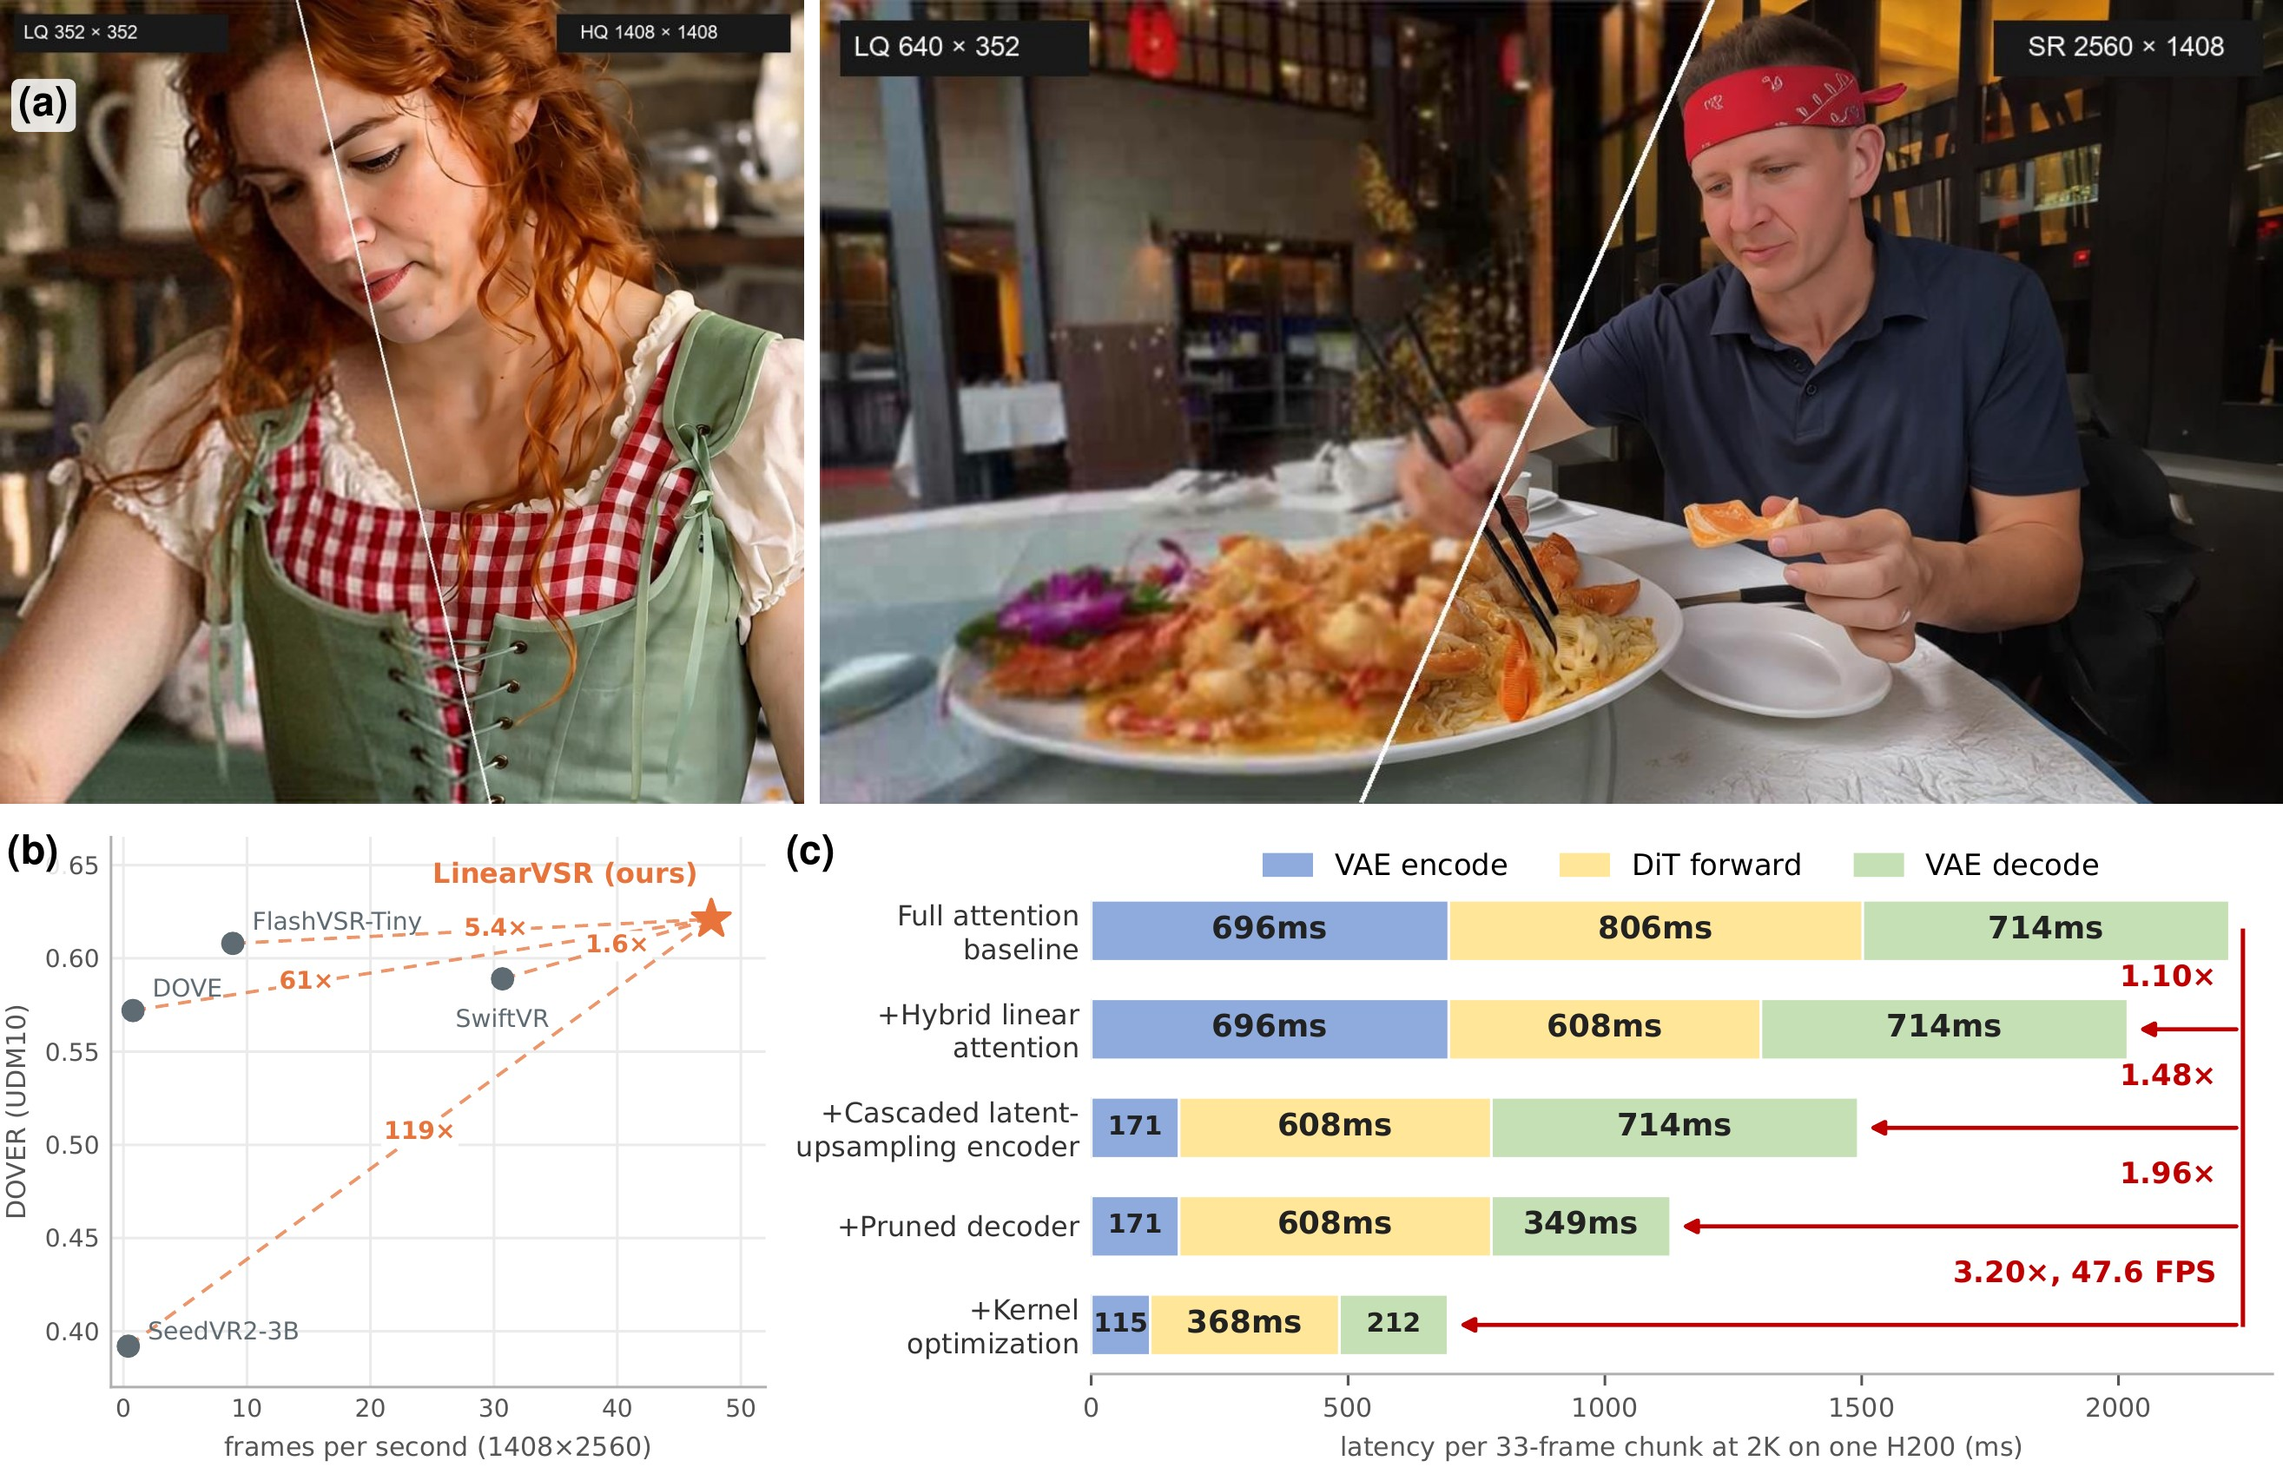
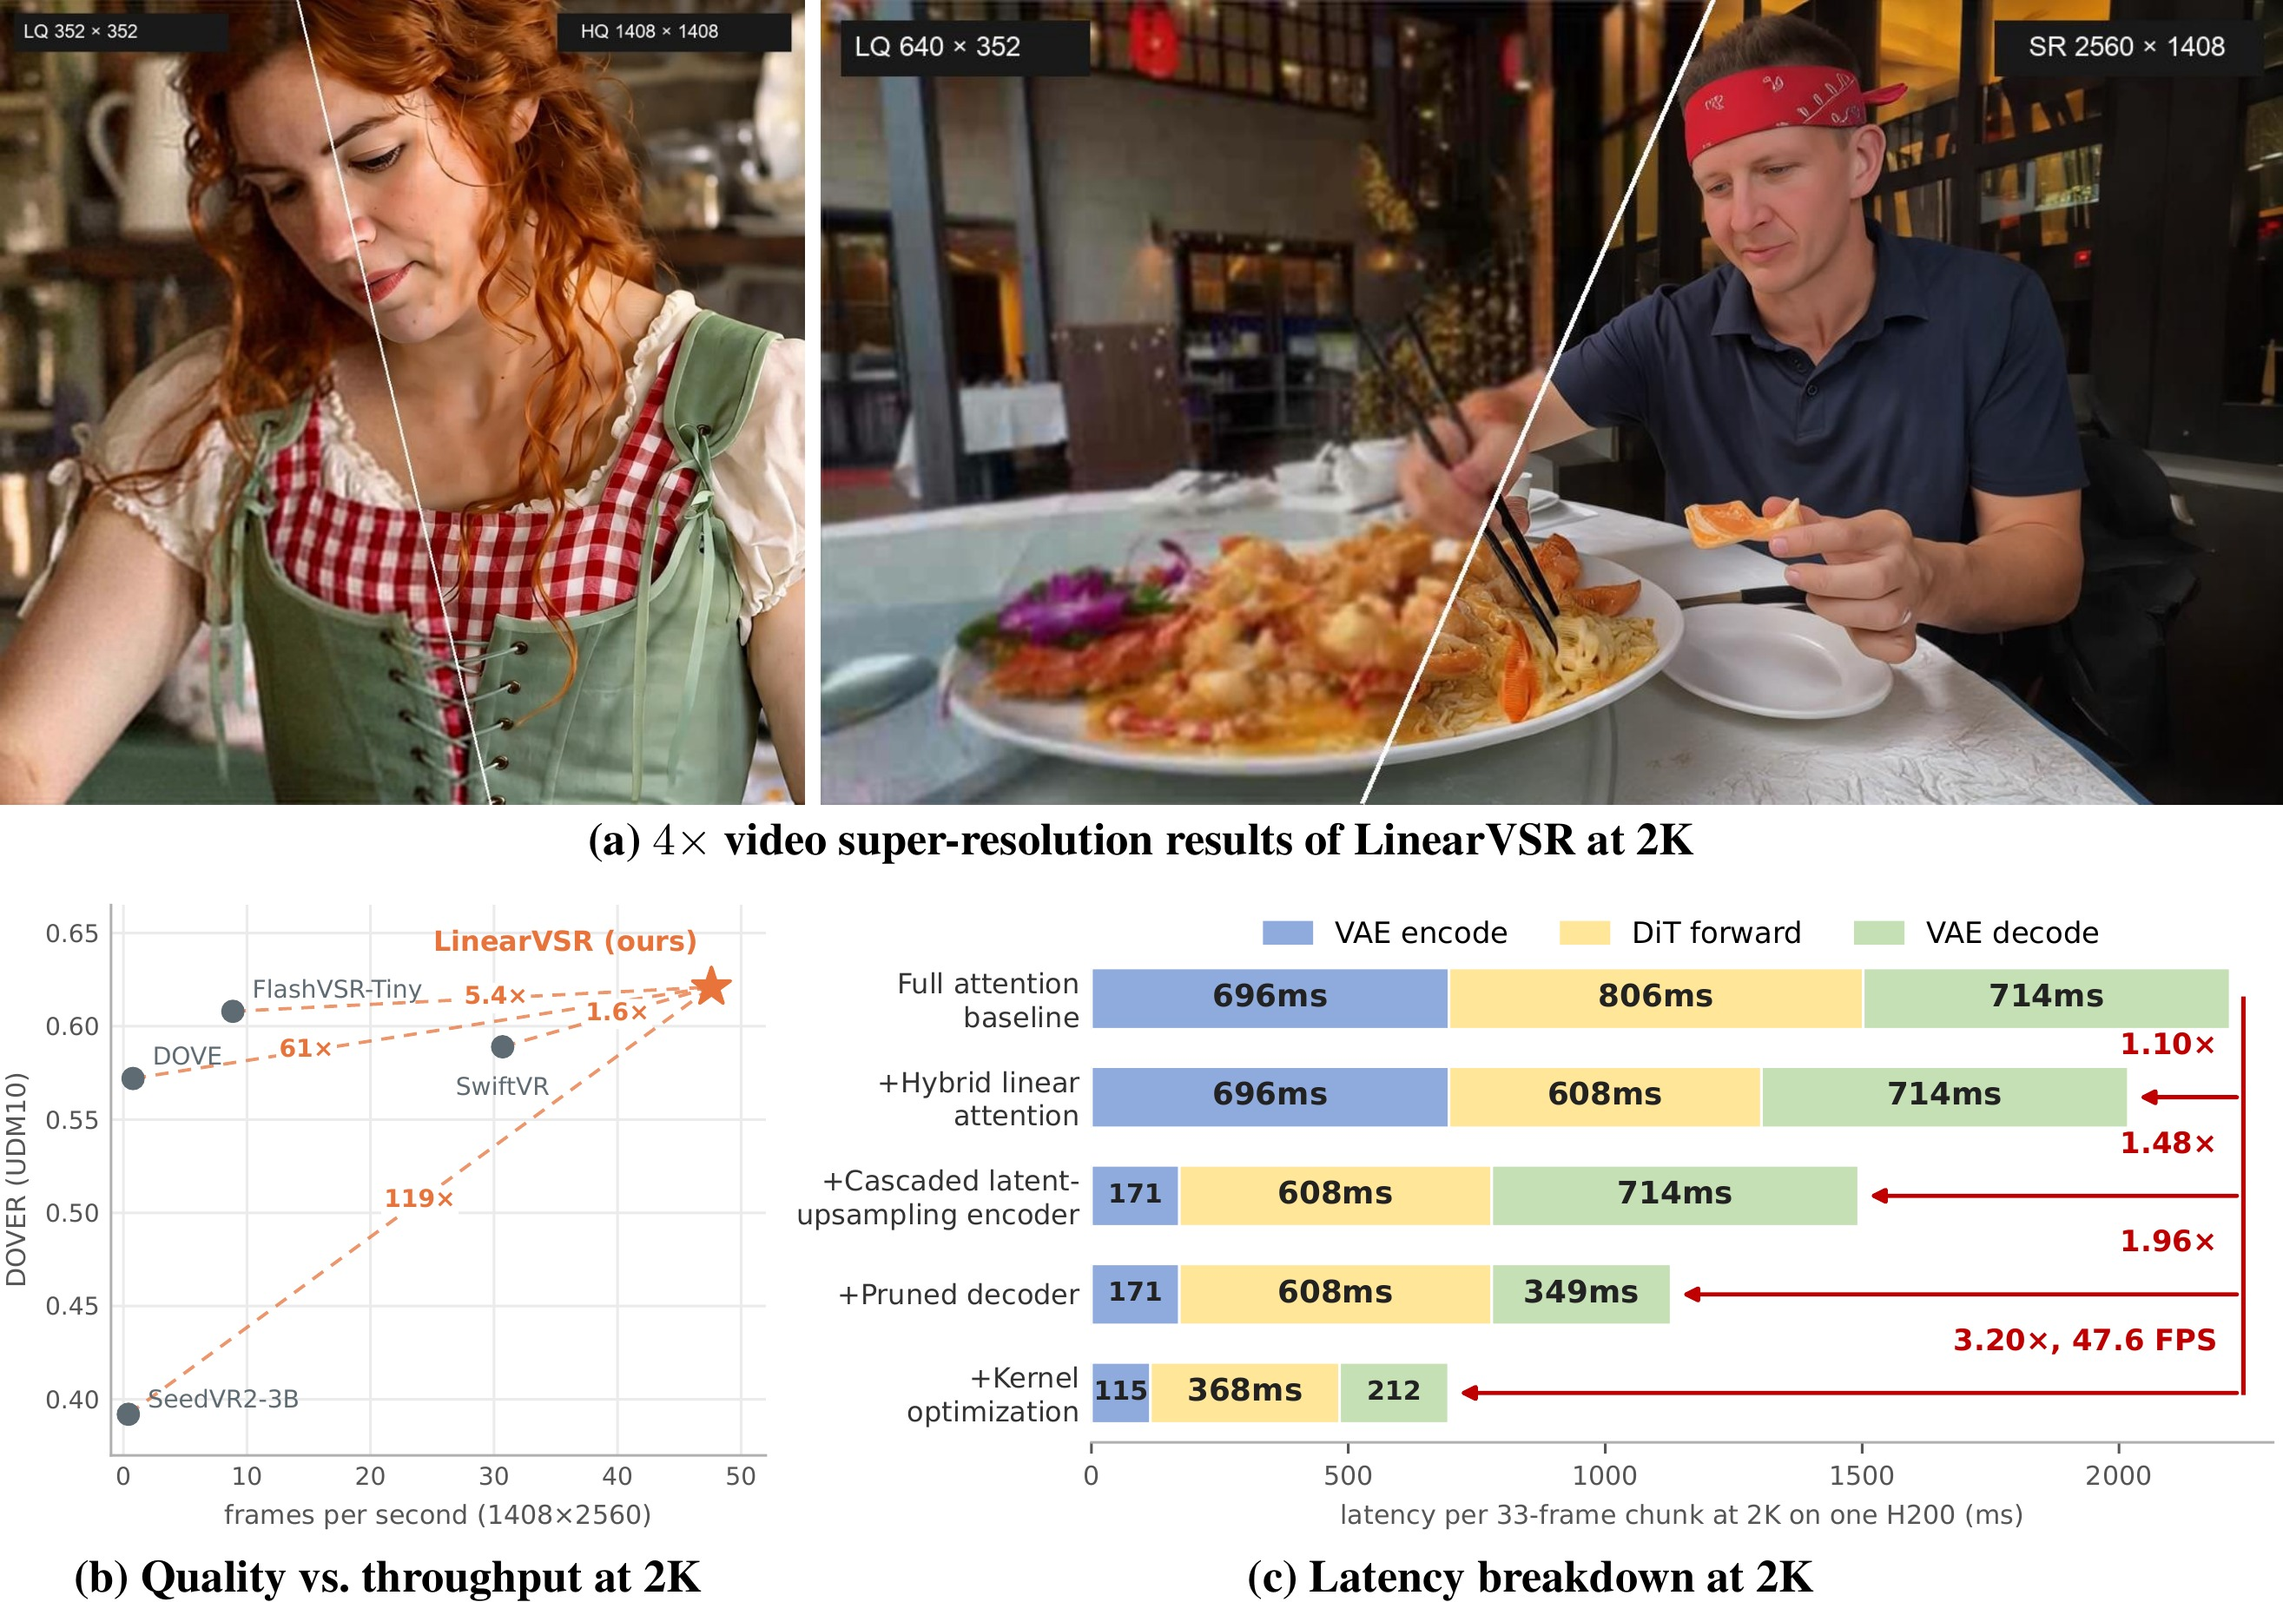
Update teaser to the new layout; use 119x for SeedVR2 to match the paper

diff --git a/index.html b/index.html
@@ -118,7 +118,7 @@
       <div class="hl-card">
         <div class="hl-name">vs. SeedVR2 <span>2K, same GPU</span></div>
         <div class="hl-label">Speedup</div>
-        <div class="hl-perf">118&times;</div>
+        <div class="hl-perf">119&times;</div>
         <div class="hl-divider"></div>
         <div class="hl-label">vs. DOVE</div>
         <div class="hl-badge">61&times; faster</div>
@@ -181,7 +181,7 @@
     <h3 class="section-head">Inference Speed</h3>
     <p class="section-sub">End-to-end latency at 2K (1408&times;2560, 33 frames, single H200, BF16), model forward passes only.</p>
     <div class="speed-callout">
-      <div><span class="num">118&times;</span><span class="lbl">faster than SeedVR2</span></div>
+      <div><span class="num">119&times;</span><span class="lbl">faster than SeedVR2</span></div>
       <div><span class="num">61&times;</span><span class="lbl">faster than DOVE</span></div>
       <div><span class="num">5.4&times;</span><span class="lbl">faster than FlashVSR-Tiny</span></div>
       <div><span class="num">1.6&times;</span><span class="lbl">faster than SwiftVR</span></div>
@@ -189,12 +189,12 @@
     <div class="bar-cards">
       <div class="bar-card" style="flex:1 1 560px">
         <div class="bar-head"><span class="t">Frames per second at 2K</span><span class="big">47.6 FPS</span></div>
-        <div class="bar-sub">higher is better &middot; right column: LinearVSR speedup (latency ratio)</div>
+        <div class="bar-sub">higher is better &middot; right column: LinearVSR speedup (FPS ratio)</div>
         <div class="bar-row"><span class="bar-label ours">LinearVSR</span><div class="bar-track"><div class="bar-fill ours" style="--value: 47.6; --scale: 50"></div></div><span class="bar-value">47.6</span><span class="bar-x ours">693 ms</span></div>
         <div class="bar-row"><span class="bar-label">SwiftVR</span><div class="bar-track"><div class="bar-fill base" style="--value: 30.7; --scale: 50"></div></div><span class="bar-value">30.7</span><span class="bar-x">1.6&times;</span></div>
         <div class="bar-row"><span class="bar-label">FlashVSR-Tiny</span><div class="bar-track"><div class="bar-fill base" style="--value: 8.86; --scale: 50"></div></div><span class="bar-value">8.86</span><span class="bar-x">5.4&times;</span></div>
         <div class="bar-row"><span class="bar-label">DOVE</span><div class="bar-track"><div class="bar-fill base" style="--value: 0.78; --scale: 50"></div></div><span class="bar-value">0.78</span><span class="bar-x">61&times;</span></div>
-        <div class="bar-row"><span class="bar-label">SeedVR2</span><div class="bar-track"><div class="bar-fill base" style="--value: 0.40; --scale: 50"></div></div><span class="bar-value">0.40</span><span class="bar-x big">118&times;</span></div>
+        <div class="bar-row"><span class="bar-label">SeedVR2</span><div class="bar-track"><div class="bar-fill base" style="--value: 0.40; --scale: 50"></div></div><span class="bar-value">0.40</span><span class="bar-x big">119&times;</span></div>
       </div>
     </div>
   </div>
